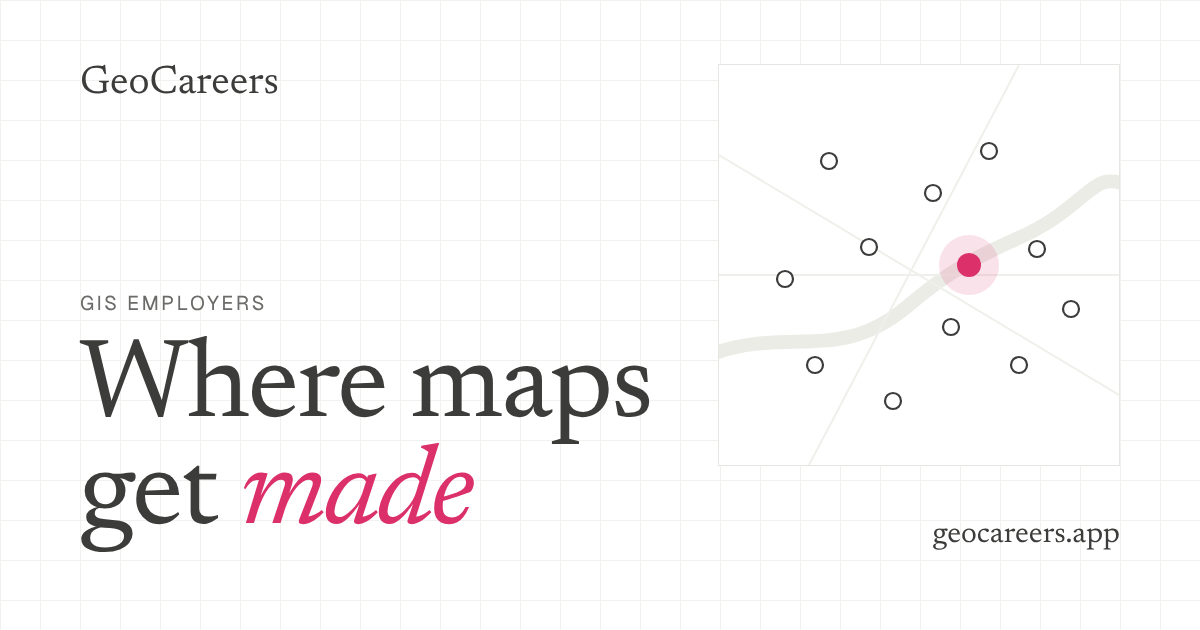
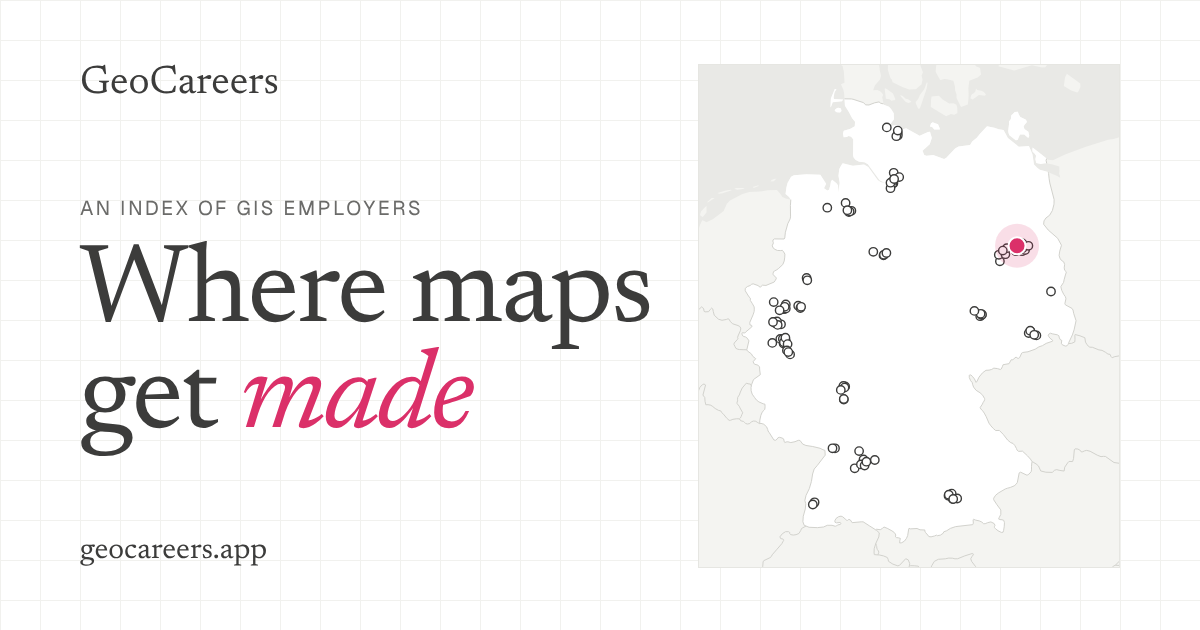
Share image: real map of Germany with the employer pins, text moved up, no 'in Germany'
Claude-Session: https://claude.ai/code/session_018oCQ6mgKiJ7Wu6GnFbzq4g

diff --git a/index.html b/index.html
@@ -15,14 +15,14 @@
   <meta property="og:url" content="https://geocareers.app/" />
   <meta property="og:title" content="GeoCareers — GIS employers" />
   <meta property="og:description" content="An index of GIS and geodata employers on one map. Filter by city, sector and tools." />
-  <meta property="og:image" content="https://geocareers.app/og-image.png?v=2" />
+  <meta property="og:image" content="https://geocareers.app/og-image.png?v=3" />
   <meta property="og:image:width" content="1200" />
   <meta property="og:image:height" content="630" />
   <meta property="og:image:alt" content="GeoCareers: Where maps get made. A map with employer pins." />
   <meta name="twitter:card" content="summary_large_image" />
   <meta name="twitter:title" content="GeoCareers — GIS employers" />
   <meta name="twitter:description" content="An index of GIS and geodata employers on one map. Filter by city, sector and tools." />
-  <meta name="twitter:image" content="https://geocareers.app/og-image.png?v=2" />
+  <meta name="twitter:image" content="https://geocareers.app/og-image.png?v=3" />
   <link rel="preconnect" href="https://fonts.googleapis.com" />
   <link rel="preconnect" href="https://fonts.gstatic.com" crossorigin />
   <link href="https://fonts.googleapis.com/css2?family=Newsreader:ital,opsz,wght@0,6..72,400;1,6..72,400&family=Geist:wght@400;500&display=swap" rel="stylesheet" />
